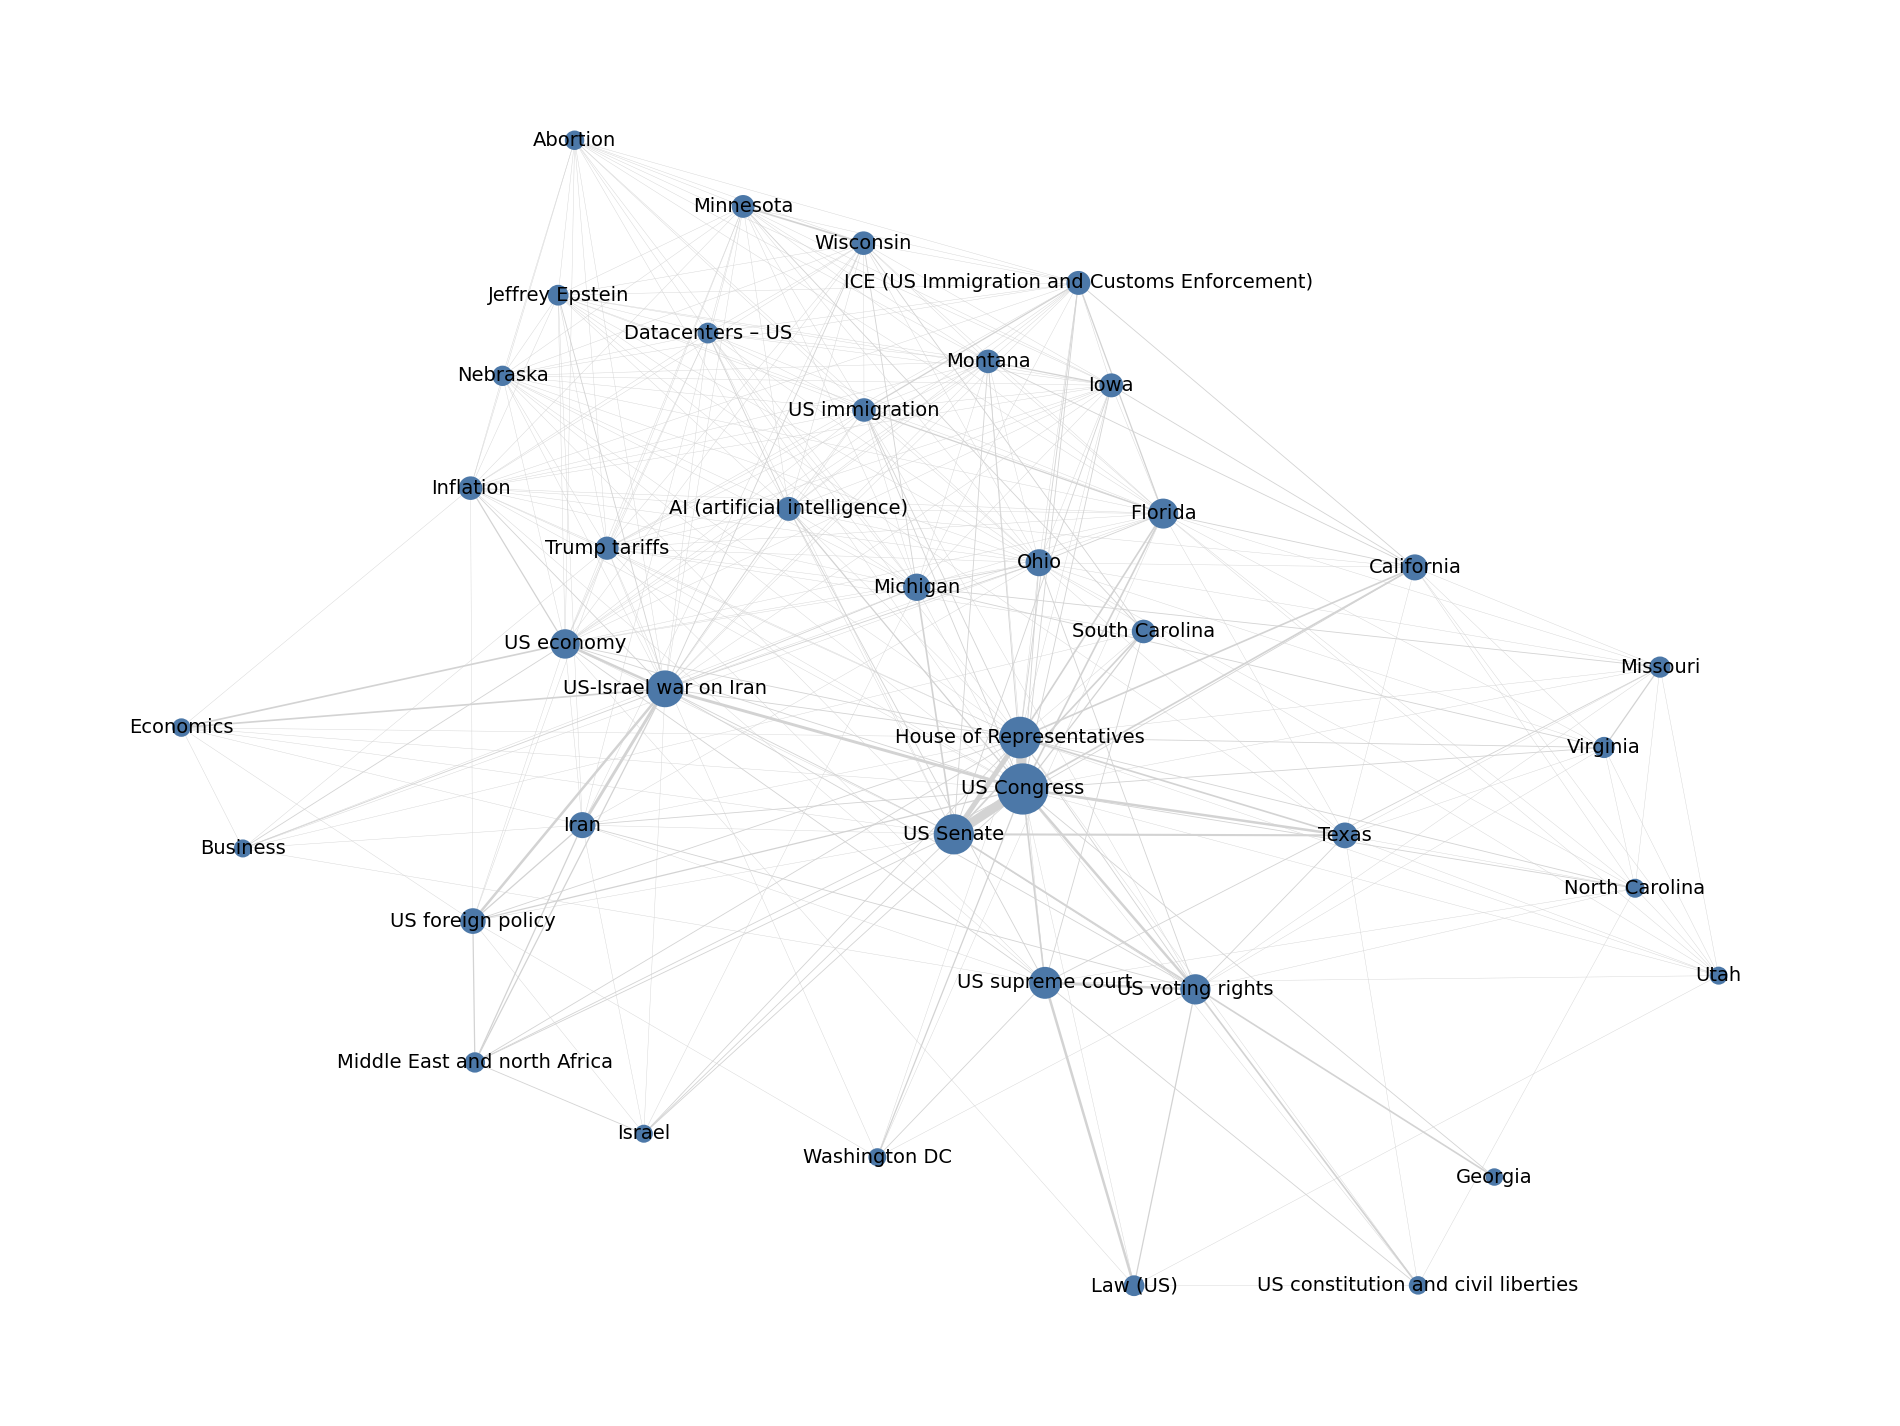
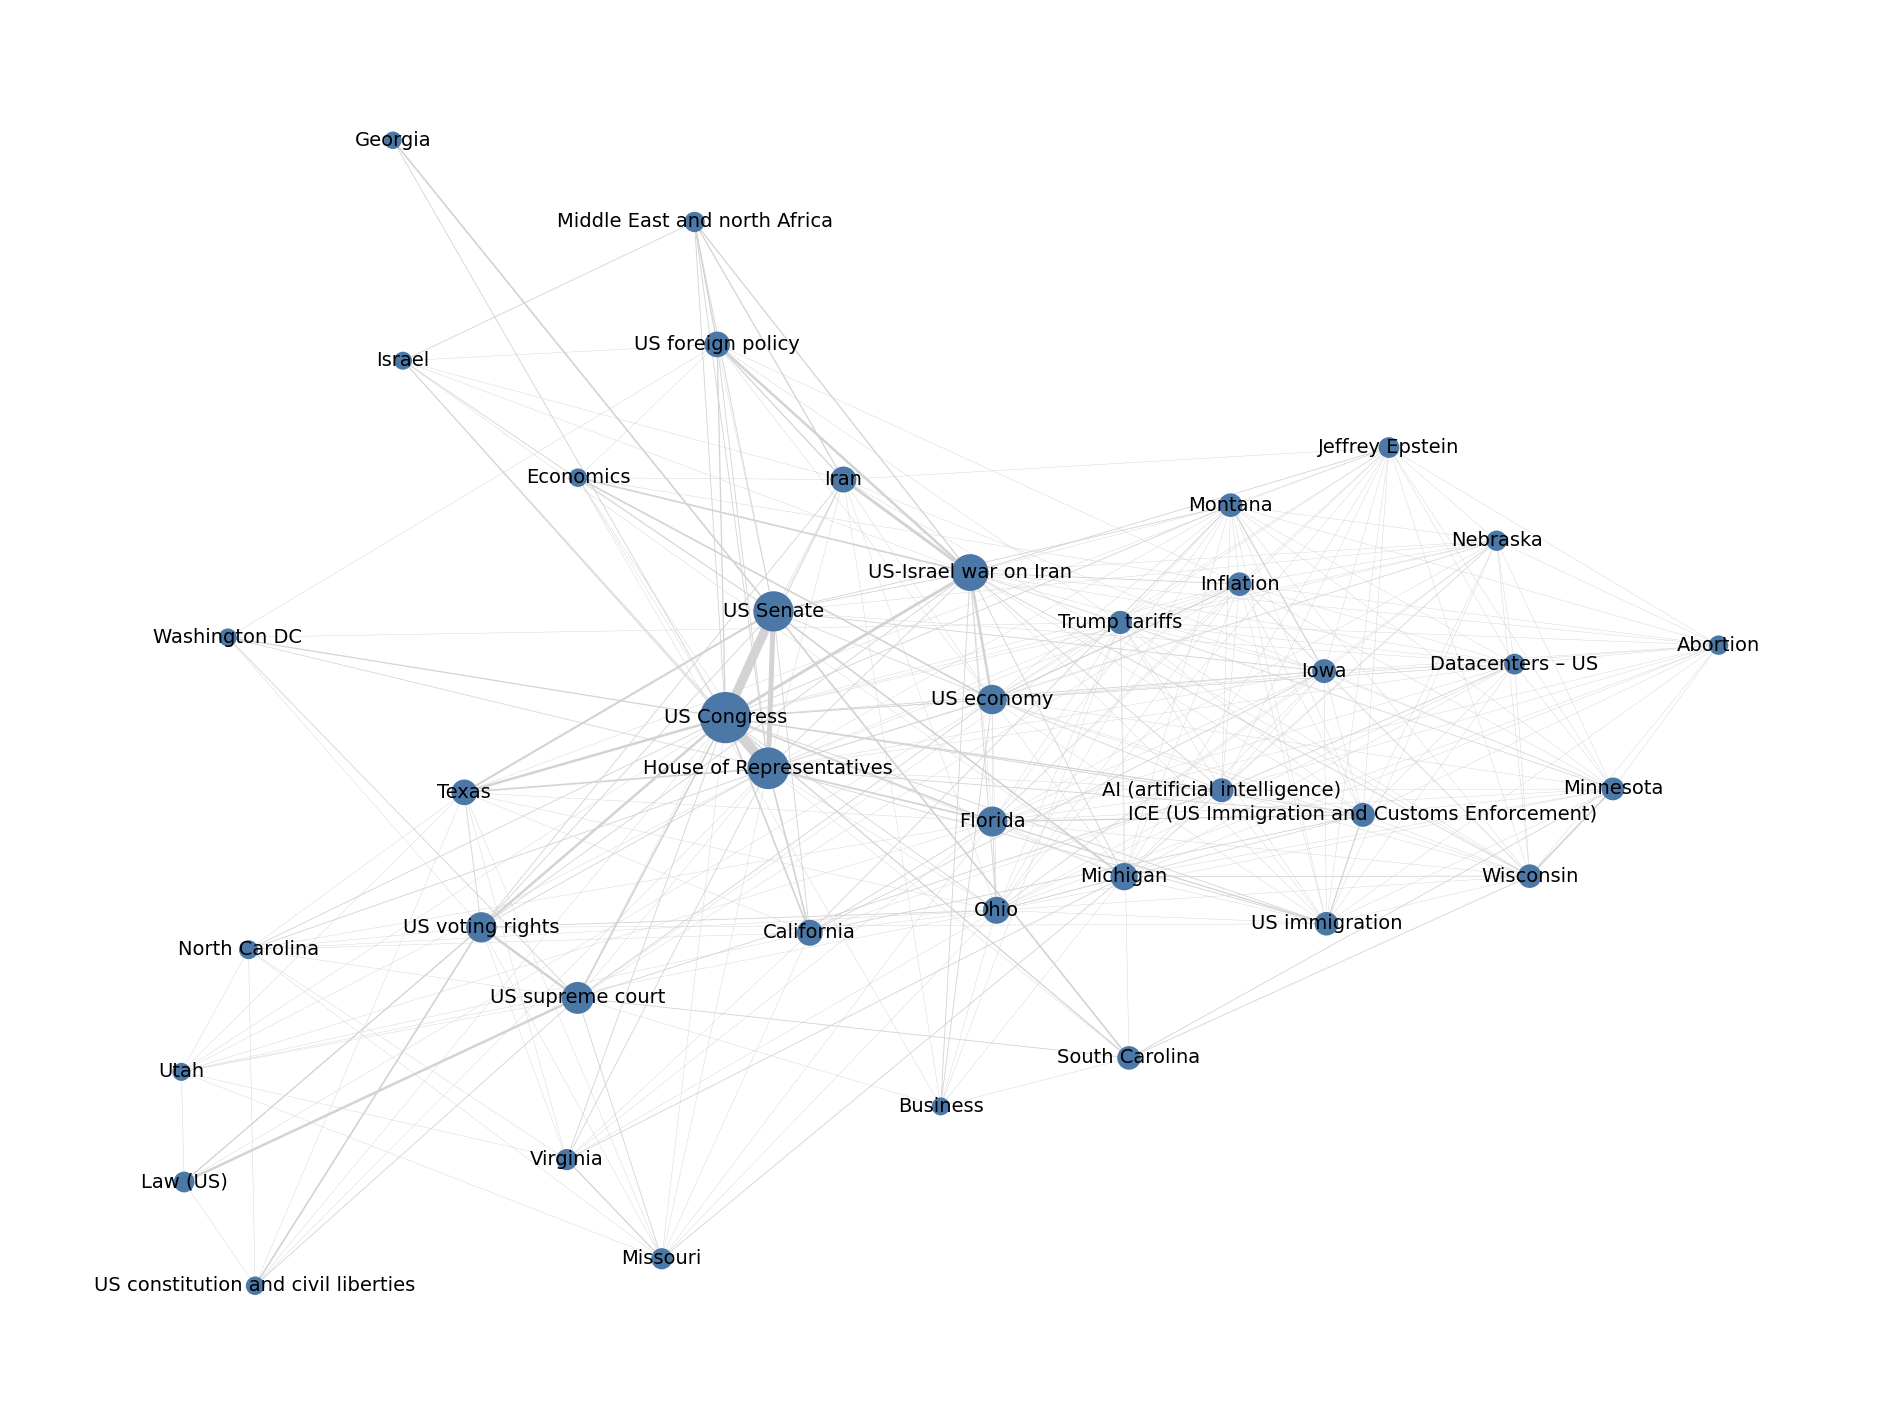
updated sensitivity check and figures

diff --git a/main-code.py b/main-code.py
@@ -100,29 +100,36 @@ def inspect(rows):
 
 #########STEP 3: build the co-occurrence graph
 # ----------------------------------------------------------------------
-def build_graph(rows):
+def build_graph(rows, min_tag=MIN_TAG_ARTICLES, min_edge=MIN_EDGE_WEIGHT):
     tag_counts = Counter(t for r in rows for t in set(r["tags"]) - GENERIC_TAGS)
-    keep = {t for t, c in tag_counts.items() if c >= MIN_TAG_ARTICLES}
-
+    keep = {t for t, c in tag_counts.items() if c >= min_tag}
     pairs = Counter()
     for r in rows:
         tags = sorted((set(r["tags"]) - GENERIC_TAGS) & keep)
         pairs.update(itertools.combinations(tags, 2))
-
     G = nx.Graph()
     for (a, b), w in pairs.items():
-        if w >= MIN_EDGE_WEIGHT:
-            # weight = how strongly connected; distance = 1/weight for
-            # shortest-path measures (stronger link = shorter distance)
+        if w >= min_edge:
             G.add_edge(a, b, weight=w, distance=1 / w)
-
-    # store how many articles each tag appears on
     nx.set_node_attributes(G, {t: tag_counts[t] for t in G}, "articles")
-
-    print(f"\nGraph: {G.number_of_nodes()} nodes, {G.number_of_edges()} edges, "
-          f"density {nx.density(G):.3f}")
     return G, pairs
 
+def sensitivity(rows, k=5):
+    results = {}
+    for min_tag, min_edge in [(2, 1), (3, 2), (5, 3)]:
+        G, _ = build_graph(rows, min_tag, min_edge)
+        core = G.subgraph(max(nx.connected_components(G), key=len))
+        bt = nx.betweenness_centrality(core, weight="distance")
+        st = dict(core.degree(weight="weight"))
+        results[(min_tag, min_edge)] = {
+            "nodes": G.number_of_nodes(),
+            "edges": G.number_of_edges(),
+            "top_strength": sorted(st, key=st.get, reverse=True)[:k],
+            "top_betweenness": sorted(bt, key=bt.get, reverse=True)[:k],
+        }
+    out = pd.DataFrame(results).T
+    out.to_csv(OUT_DIR / "sensitivity.csv")
+    print(out.to_string())
 
 ##################STEP 4: centrality measures
 # ----------------------------------------------------------------------
@@ -215,9 +222,14 @@ if __name__ == "__main__":
 
     inspect(rows)
     G, pairs = build_graph(rows)
+    print(f"\nGraph: {G.number_of_nodes()} nodes, {G.number_of_edges()} edges, "
+          f"density {nx.density(G):.3f}")
     core, table = compute_centrality(G)
     top_pairs(pairs)
     plot_network(core, table)
     plot_heatmap(pairs, table)
     plot_monthly(rows)
+
+    print("\nSensitivity check (Trump and parties removed):")
+    sensitivity(rows)
     print("\nDone. See output/ and figures/.")
